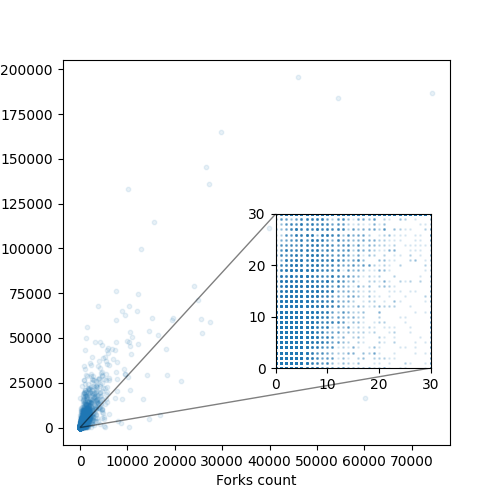
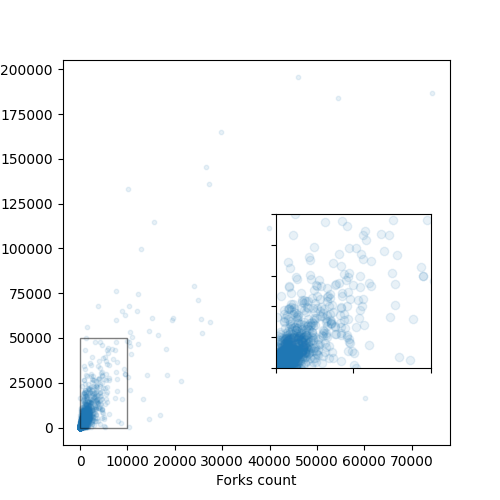
updated release results with full data

diff --git a/repo_metrics/construct_release_data.py b/repo_metrics/construct_release_data.py
@@ -3,24 +3,32 @@ from os import listdir
 from os.path import isfile, join
 import ast
 
-input_folder = "../../rs_usage/info_repos/release/"
+input_folder = "../../rs_usage/info_repos/release_number/"
 files = [join(input_folder, f) for f in listdir(input_folder) if isfile(join(input_folder, f))]
 files = [f for f in files if f.endswith(".csv")]
 
 
 def str2list(a):
-    if a == "Error: Unable to retrieve README for url. Status code: 404":
-        return []
+    if a == "Error: Unable to retrieve release for url. Status code: 404":
+        return 0
     else:
         return ast.literal_eval(a)
+
+
+def clean_str(a):
+    try:
+        return int(a)
+    except ValueError:
+        return 0
+
 
 
 df_list = []
 for file in files:
     df = pd.read_csv(file)
-    df["url"] = df["url"].apply(str2list)
+    df["url"] = df["url"].apply(clean_str)
     df.set_index("Unnamed: 0", inplace=True)
     df_list.append(df)
 
 metadata_df = pd.concat(df_list)
-metadata_df.to_csv(f"{input_folder}/release.csv")
+metadata_df.to_csv(f"{input_folder}/release_number.csv")

diff --git a/repo_metrics/get_release_data.py b/repo_metrics/get_release_data.py
@@ -78,7 +78,7 @@ if __name__ == "__main__":
     dataset_github = pd.read_csv("../../rs_usage/metadata/metadata.csv", low_memory=False)
 
     idxs = np.linspace(0, len(dataset_github), 10, endpoint=True, dtype=int)
-
+    idxs = idxs[3:]
     for i in range(len(idxs)-1):
         info = dataset_github["url"].iloc[idxs[i]:idxs[i+1]].apply(get_repo_releases_number,
                                                                        token=token)

diff --git a/README.md b/README.md
@@ -58,7 +58,7 @@ a proxy for community interest and could observe a correlation.
 
 ![alt text](./figures/release_count_bar.png)
 ![alt text](./figures/forks_count_bar.png)
-![alt text](./figures/release_forks_scatter.png)
+![alt text](./figures/forks_release.png)
 ![alt text](./figures/forks_stars.png)
 
 
